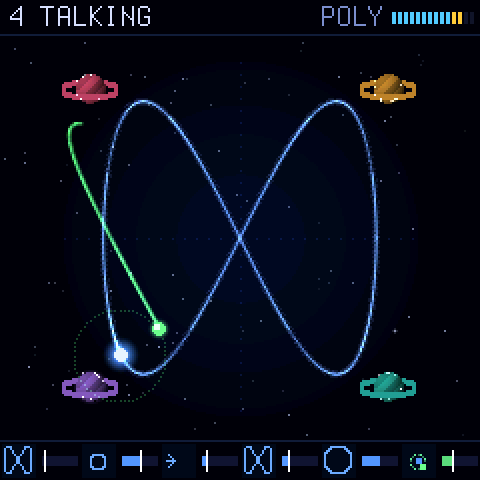
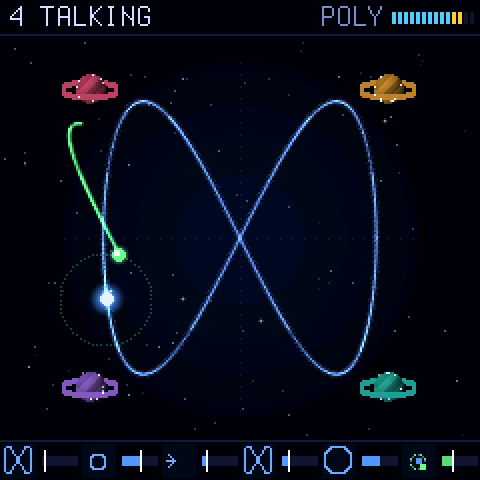
Paths: a host test that WARP Y at its left end makes no circle; the docs' pictures rendered again (boot, paths)

diff --git a/tests/host.c b/tests/host.c
@@ -508,6 +508,35 @@ static void test_paths(void)
     }
 }
 
+/* WARP Y at its left end (as the Lissajous sounds set it): every family still its figure, never a plain circle (the
+ * radius varies by more than 10 %), but Lissajous at 1:1 (MORPH -64) */
+static void test_not_circle(void)
+{
+    static const int16_t MO[3] = {-64, 0, 63};
+    uint32_t f, m, i, bad = 0;
+    double worst = 1;
+    for (f = 0; f < SH_N; f++)
+        for (m = 0; m < 3; m++) {
+            patch_t p;
+            double lo = 1e9, hi = 0;
+            patch_init(&p);
+            p.g[G_SHAPE] = (int16_t)(f * FAM_STEP), p.g[G_WARPY] = -64, p.g[G_WARPX] = 0, p.g[G_MORPH] = MO[m];
+            orbit_follow(p.g, 1);
+            for (i = 0; i < 512; i++) {
+                int32_t x, y;
+                double r;
+                orbit_path(i * (0xFFFFFFFFu / 512u), i * (0xFFFFFFFFu / 512u), &x, &y);
+                r = sqrt((double)x * x + (double)y * y);
+                lo = fmin(lo, r), hi = fmax(hi, r);
+            }
+            if (f == 0 && m == 0)
+                continue;                              /* (Lissajous 1:1: the circle) */
+            worst = fmin(worst, (hi - lo) / hi);
+            bad += (hi - lo) / hi <= 0.10;
+        }
+    check("WARP Y -64: no family a circle (but 1:1)", bad == 0, "least radius variation %.2f, %.0f circles", worst, bad);
+}
+
 static void retrig_note(uint32_t b)               /* (decaying sounds: the note again every 0.75 s) */
 {
     if (b % (FS * 3 / 4 / CTL) == 0) {
@@ -621,6 +650,7 @@ int main(int argc, char **argv)
     test_modes();
     test_presets();
     test_paths();
+    test_not_circle();
     test_motion();
     test_cost();
     printf(fails ? "host: %d FAILED\n" : "host: all ok\n", fails);
